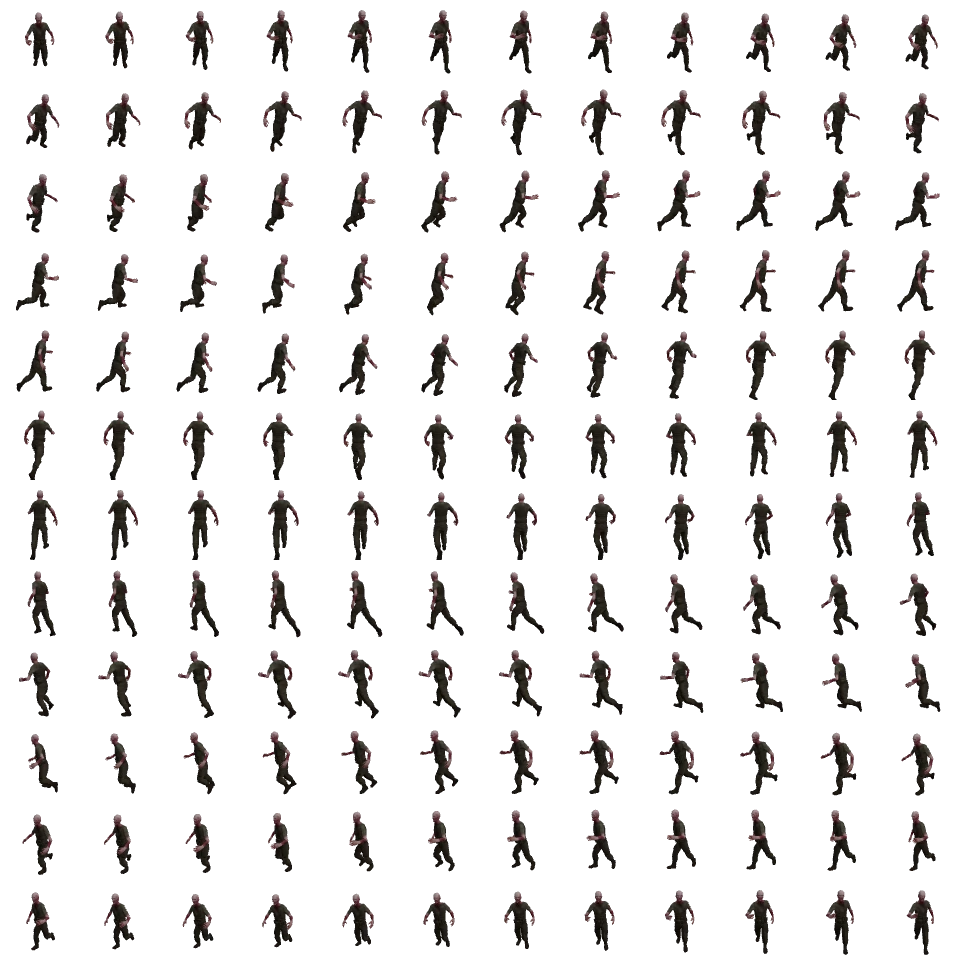
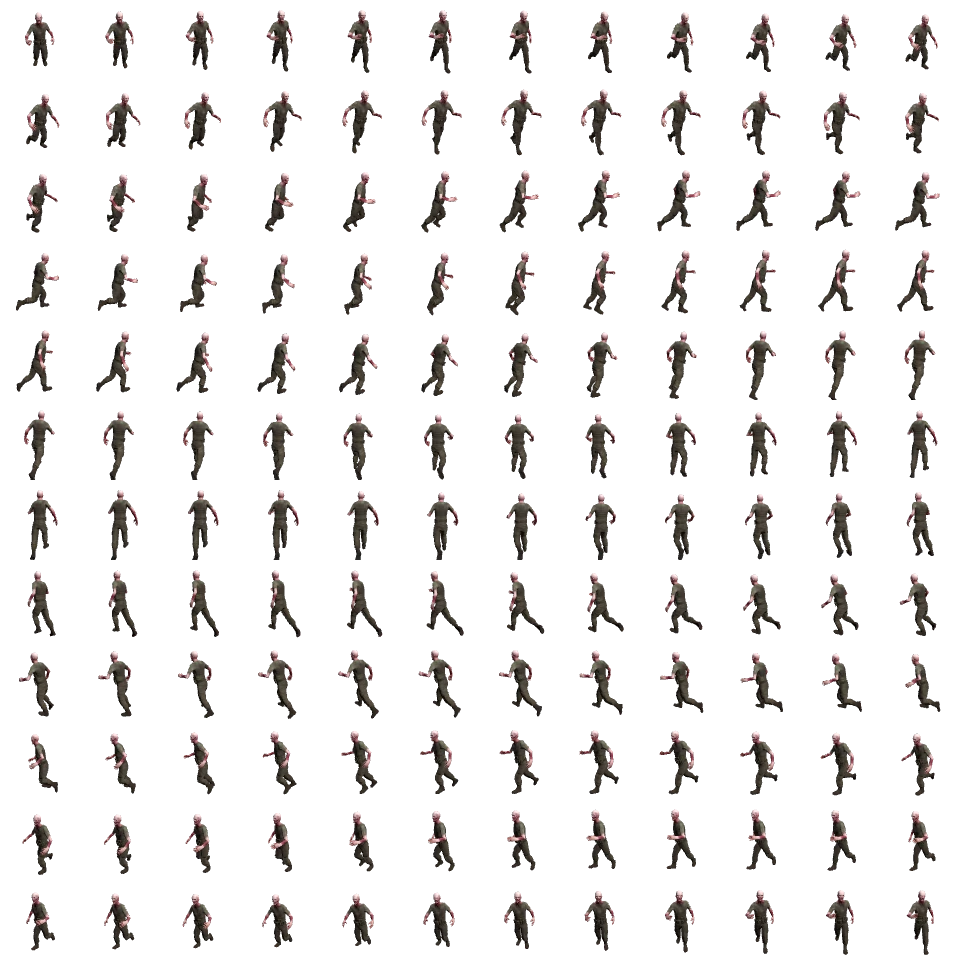
fix(previews): light the zombie soldier's wave preview brighter
Olive drab on the dark wave panel, the soldier hardly read at the shared
preview light. Enemy types can set previewLight; the soldier takes 5 and
its sheet is baked again.

diff --git a/src/app/configs/enemy-types.config.ts b/src/app/configs/enemy-types.config.ts
@@ -220,6 +220,7 @@ export interface EnemyTypeConfig {
   previewCameraDistance?: number; // Camera distance for preview (default: 7)
   previewCameraAngle?: number; // Camera pitch angle in radians for preview (default: Math.PI / 12)
   previewOffsetY?: number; // Vertical offset for preview camera target (default: 0)
+  previewLight?: number; // Key light of the preview (default 1.3); dark models need more to read on the dark panel
 }
 
 /** What a worm head, segment or tail model sets; the rest of the type is shared. */
@@ -678,6 +679,8 @@ export const ENEMY_TYPES: Record<string, EnemyTypeConfig> = {
     previewCameraDistance: 7,
     previewCameraAngle: 0.26,
     previewOffsetY: 0.3,
+    // Olive drab on a dark panel: at the default light it hardly read
+    previewLight: 5,
   },
 
   rat: {

diff --git a/src/app/services/infrastructure/preview-sheets.ts b/src/app/services/infrastructure/preview-sheets.ts
@@ -69,7 +69,7 @@ export function enemyPreviewConfig(enemy: EnemyTypeConfig, overrides?: EnemyPrev
     offsetY: overrides?.previewOffsetY ?? enemy.previewOffsetY ?? 0,
     animationName: enemy.walkAnimation || undefined,
     animationTimeScale: 0.7,
-    lightIntensity: 1.3,
+    lightIntensity: enemy.previewLight ?? 1.3,
     groundModel: true,
   };
 }
